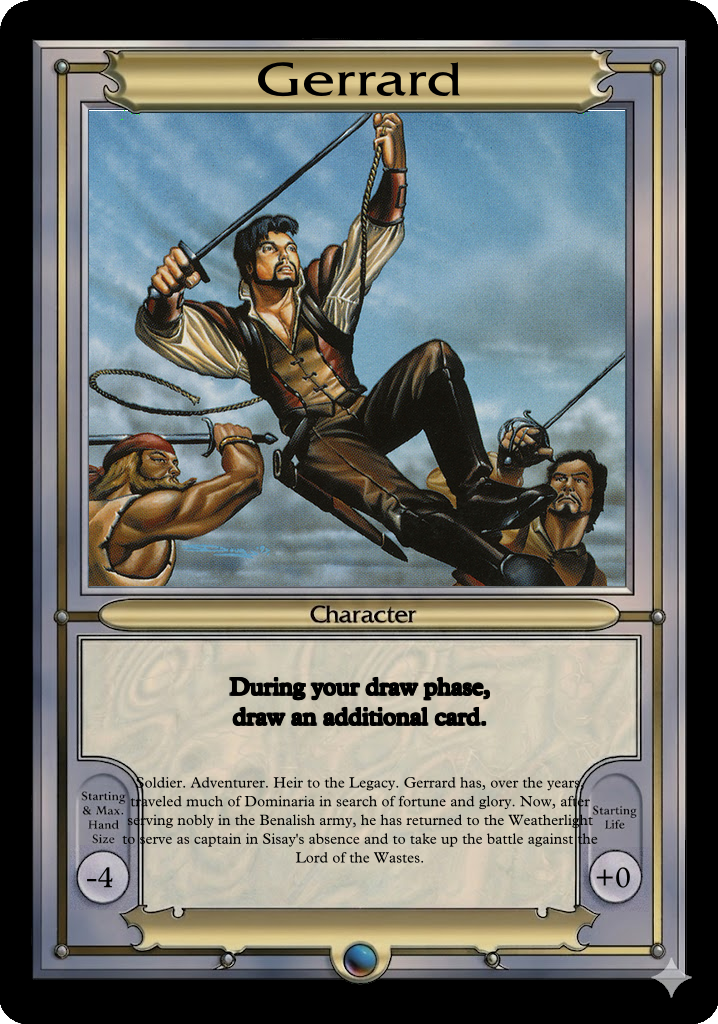
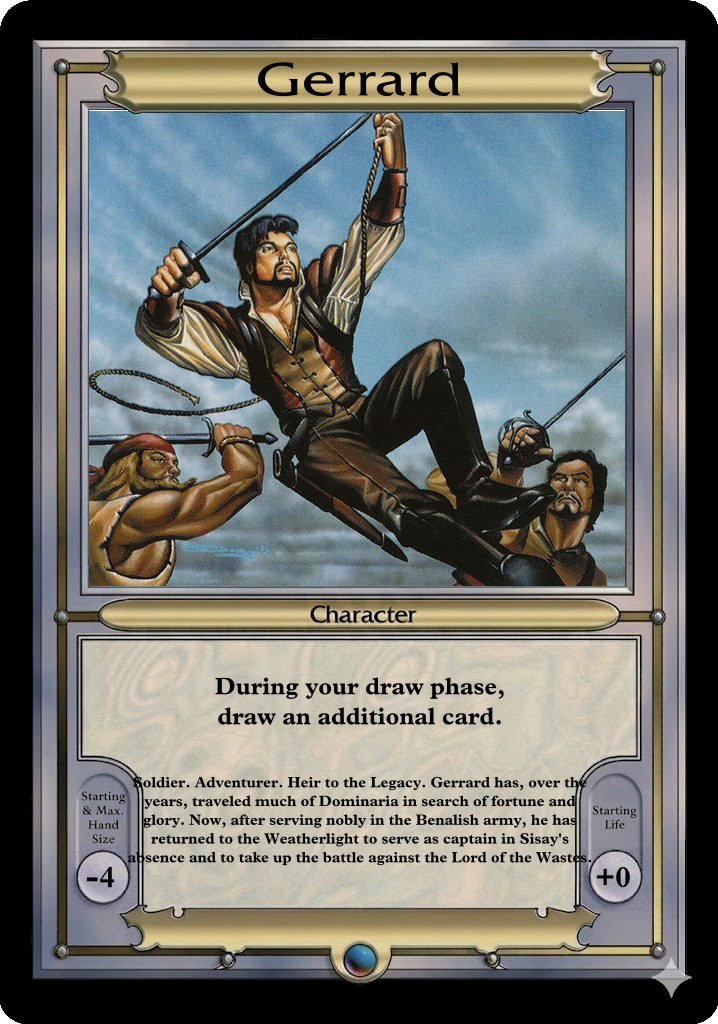
Revert to MPlantin Bold for ability text; remove stroke
Switch back to body_bold_data() for all ability text rendering.
Set ability_stroke=0. Update test thresholds to bold baseline
(~28% avg rules F1). Regenerate example images.

diff --git a/tests/render_tests.rs b/tests/render_tests.rs
@@ -79,7 +79,7 @@ fn render_title(yaml_path: &str) -> RgbaImage {
 
 fn render_rules(yaml_path: &str) -> RgbaImage {
     let card = load_card(yaml_path);
-    let body_font = FontRef::try_from_slice(fonts::body_data()).expect("body font");
+    let body_font = FontRef::try_from_slice(fonts::body_bold_data()).expect("body font");
     let layout = &DEFAULT;
 
     let mut canvas = blank_canvas();
@@ -520,7 +520,7 @@ fn test_gerrard_rules() {
         &render_rules("tests/gerrard.yaml"),
         "tests/fixtures/gerrard_rules_mask.png",
         "gerrard_rules",
-        0.30,
+        0.24,
     );
 }
 
@@ -564,7 +564,7 @@ fn test_silverqueen_rules() {
         &render_rules("tests/silverqueen.yaml"),
         "tests/fixtures/silverqueen_rules_mask.png",
         "silverqueen_rules",
-        0.28,
+        0.20,
     );
 }
 
@@ -646,7 +646,7 @@ fn test_sidar_rules() {
         &render_rules("tests/sidar.yaml"),
         "tests/fixtures/sidar_rules_mask.png",
         "sidar_rules",
-        0.22,
+        0.15,
     );
 }
 
@@ -728,7 +728,7 @@ fn test_volrath_rules() {
         &render_rules("tests/volrath.yaml"),
         "tests/fixtures/volrath_rules_mask.png",
         "volrath_rules",
-        0.22,
+        0.15,
     );
 }
 

diff --git a/src/render.rs b/src/render.rs
@@ -21,7 +21,7 @@ pub fn run(paths: &[PathBuf], output: Option<&Path>, template: Option<&Path>) ->
     let name_font =
         FontRef::try_from_slice(fonts::name_data()).context("loading embedded name font")?;
     let body_font =
-        FontRef::try_from_slice(fonts::body_data()).context("loading embedded body font")?;
+        FontRef::try_from_slice(fonts::body_bold_data()).context("loading embedded body font")?;
 
     let multi = yaml_files.len() > 1;
 

diff --git a/src/fonts.rs b/src/fonts.rs
@@ -6,13 +6,12 @@ pub fn name_data() -> &'static [u8] {
 }
 
 /// Body text font (MPlantin).
+#[allow(dead_code)]
 pub fn body_data() -> &'static [u8] {
     bundle::font("Mplantin.ttf")
 }
 
 /// Bold body text font (MPlantin Bold).
-/// Retained for future use (e.g. ability keywords rendered in bold).
-#[allow(dead_code)]
 pub fn body_bold_data() -> &'static [u8] {
     bundle::font("Mplantin-Bold.ttf")
 }

diff --git a/src/layout.rs b/src/layout.rs
@@ -55,7 +55,7 @@ pub const DEFAULT: Layout = Layout {
     name_scale: (71.0, 57.0),
     name_max_width: 460.0,
     line_height_factor: 1.25,
-    ability_stroke: 2,
+    ability_stroke: 0,
     rules_centering_height: 126.0,
     stats_size: 30.0,
 };
